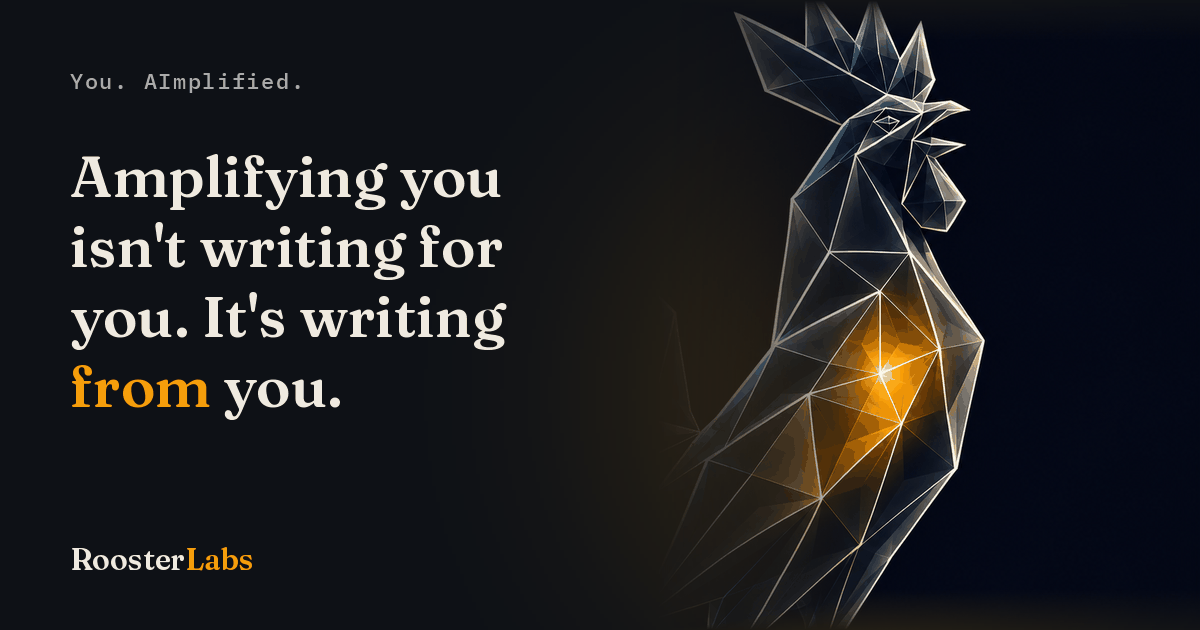
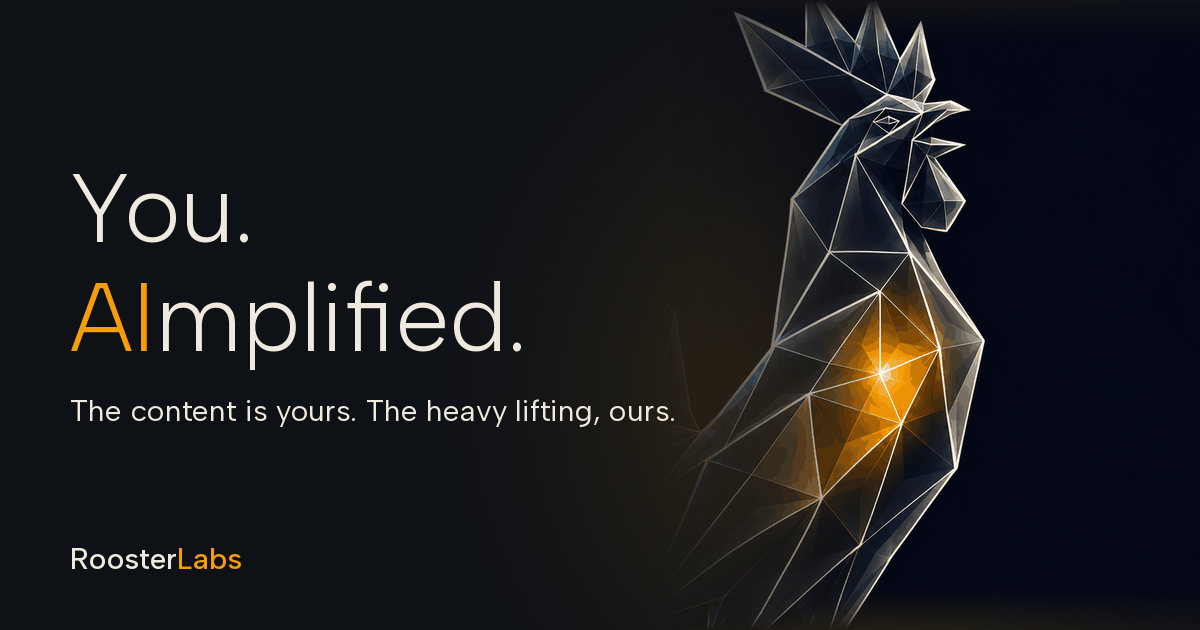
Épico 003 (T6-T7): OGs v0.5, architecture.md, guards do revisor; processo sem PR (decisions/workflow)

diff --git a/internal/server/server_test.go b/internal/server/server_test.go
@@ -617,10 +617,19 @@ func TestFooterBrand(t *testing.T) {
 	rec = httptest.NewRecorder()
 	h.ServeHTTP(rec, httptest.NewRequest(http.MethodGet, "/static/site.css", nil))
 	css := rec.Body.String()
-	for _, want := range []string{".wordmark", ".wordmark-labs", ".footer-brand"} {
+	for _, want := range []string{".footer-brand", ".wordmark"} {
 		if !strings.Contains(css, want) {
 			t.Fatalf("/static/site.css: missing %q (footer brand, v0.5)", want)
 		}
+	}
+	// Achado do revisor da T5: presença de seletor não impede regressão de
+	// valor — 300 no wordmark ("não segura pequeno") ou "Labs" fora do âmbar
+	// passariam verdes. Asserts miram os valores da spec.
+	if !strings.Contains(css, ".wordmark {\n  font-family: \"Albert Sans\", Arial, sans-serif;\n  font-weight: 500;") {
+		t.Fatal("/static/site.css: wordmark must be Albert Sans weight 500 (visual identity v0.5)")
+	}
+	if !strings.Contains(css, ".wordmark-labs {\n  color: var(--amber-500);") {
+		t.Fatal("/static/site.css: wordmark 'Labs' must be amber (visual identity v0.5)")
 	}
 }
 

diff --git a/docs/architecture.md b/docs/architecture.md
@@ -15,17 +15,17 @@ flowchart LR
     end
     LD --> DB[(Neon Postgres)]
     GH[GitHub Actions\nCI verde em main] -.build+deploy+invalidate.-> L
-    FONTS[Google Fonts CDN\nFraunces/Inter/Plex Mono] -.decorativo, fora do\ncaminho crítico.-> V
+    FONTS[Google Fonts CDN\nAlbert Sans/Inter/Plex Mono] -.decorativo, fora do\ncaminho crítico.-> V
 ```
 
-**Estado entregue:** épico 001 (landing bilíngue em produção, captura de leads, funil instrumentado) e épico 002 (copy v0.4, débito técnico de infra/segurança) — ver `epics/done/001-landing-page.md` e `epics/002-landing-v04-sync.md`.
+**Estado entregue:** épico 001 (landing bilíngue em produção, captura de leads, funil instrumentado), épico 002 (copy v0.4, débito técnico de infra/segurança) e épico 003 (copy/identidade v0.5) — ver `epics/done/`.
 
 ## Rotas
 
 | Rota | O que faz |
 |---|---|
-| `GET /` | landing PT-BR (copy v0.4) |
-| `GET /en/` | landing EN (copy v0.4) |
+| `GET /` | landing PT-BR (copy v0.5) |
+| `GET /en/` | landing EN (copy v0.5) |
 | `POST /form/{step}` | processa etapa do carrossel HTMX e retorna próximo fragmento |
 | `POST /event/view` | grava pageview first-party (idioma + path + UTMs lidos de `location.search` no cliente, não do HTML cacheado) |
 | `GET /healthz` | health check |
@@ -40,9 +40,17 @@ Schema inicial no Postgres (Neon):
 
 Migração fonte da verdade: `internal/leads/migrations/001_init.sql`.
 
+## Detalhes entregues no épico 003 (landing v0.5)
+
+- **Fontes:** display migrou de Fraunces (serifa, aposentada pelo guardrail da identidade) para **Albert Sans** (300/400/500); corpo segue Inter, meta segue IBM Plex Mono. Guardrail do peso fino codificado no CSS: 300 só em texto ≥36px (media query em 600px derivada do clamp do h1 — recalibrar se o clamp mudar). Mesma exceção de CDN decorativo de sempre.
+- **Hero v0.5:** tagline como H1 (só o prefixo "AI" em âmbar, via span — a palavra inteira colorida quebra o trocadilho em Albert Sans), sem eyebrow, CTA âncora para `#lead-form`, linha de fechamento própria.
+- **Assets novos em `/static/`:** `rooster-watermark.webp` (26 KB, marca d'água do hero a 16%, some em mobile) e `rooster-icon.png` (112px/12,8 KB, derivado do master de 1024px em `roosterlabs-marketing/brand/`; rodapé com wordmark "Rooster**Labs**" em Albert Sans 500).
+- **Tokens semânticos:** `--ok-500`/`--no-500` para ✓/✗ da tabela de comparação — únicos consumidores são `.mark-ok`/`.mark-no` (regra da identidade travada por teste).
+- **OG v0.5 + cache do LinkedIn:** os arquivos `og.png`/`og-en.png` mantêm os nomes entre versões — o CloudFront invalida no deploy, mas **o LinkedIn cacheia por URL**: após trocar OG, forçar re-scrape no Post Inspector (senão o preview velho persiste).
+
 ## Detalhes entregues no épico 002 (débito técnico + sync v0.4)
 
-- **Fontes:** Fraunces/Inter/IBM Plex Mono via Google Fonts CDN (`<link>` no `<head>`, `preconnect`) — exceção deliberada à regra de "nenhum CDN de terceiro no caminho crítico", já que é decorativo (fallback de CSS se falhar); diferente do htmx, que é vendorado localmente por ser caminho crítico do form.
+- **Fontes:** ver épico 003 acima (Fraunces→Albert Sans); a decisão de CDN decorativo com fallback de CSS vem do 002 — diferente do htmx, vendorado localmente por ser caminho crítico do form.
 - **OG image por idioma:** `ogImageFile(lang)` em `internal/server/server.go` escolhe `og.png` (PT) ou `og-en.png` (EN); metatags incluem `og:image:width=1200`/`height=630`/`type=image/png`. Fecha o G1 do épico 001 (SVG não renderizava preview em LinkedIn/WhatsApp).
 - **UTM à prova de cache:** `web/static/app.js` lê `location.search` no cliente e sobrescreve incondicionalmente os hidden inputs do form (passo 1) e o payload do beacon — nunca confia no HTML servido pelo CloudFront, que cacheia ignorando query string. Fecha o G2 do épico 001.
 - **Deploy CI-gated:** `deploy.yml` dispara via `workflow_run` do workflow `CI` (só com `conclusion == 'success'`), não mais por `push` direto — um lint quebrado não vai mais ao ar.

diff --git a/workflow.md b/workflow.md
@@ -41,10 +41,10 @@ proposto → escopado → aceito → em-execução → concluído
 - Anti-alucinação, cada tarefa declara: **blast radius** (arquivos/funções que espera tocar e que deve ler antes — sair da lista durante a implementação = parar e atualizar a tarefa), plano de teste com edge cases enumerados antes de código, traço ao item do DoD, e orçamento de diff (~150 linhas, excluindo gerado). **Proibido drive-by**: melhoria fora do comportamento vira tarefa própria.
 
 ### 5. Build / Test / Review / Deploy (por tarefa)
-- Branch por tarefa. **Testes primeiro** (do plano de teste), depois implementação. Commits pequenos.
-- Local/devcontainer: `make test` antes de qualquer push. CI roda build + vet + test + lint em todo PR; PR vermelho não é revisado.
-- Review em camadas: (1) agente `revisor` — contexto limpo, ataca o diff contra tarefa, DoD e edge cases; (2) CI verde; (3) Pedro revisa o diff e roda local. `/security-review` obrigatório quando tocar input de usuário, auth ou dados de cliente.
-- Merge em `main` → deploy automático em produção. Rollback = revert + merge.
+- Branch por épico (decisão 2026-07-10; era por tarefa, com PR). **Testes primeiro** (do plano de teste), depois implementação. Um commit por tarefa ou por lote pequeno de tarefas.
+- Local/devcontainer: `make test` + `make lint` antes de qualquer push — é o gate de branch (sem PR, o CI não roda em push de branch).
+- Review em camadas: (1) agente `revisor` — contexto limpo, ataca o diff contra tarefa, DoD e edge cases (obrigatório, por tarefa); (2) CI verde na `main` pós-merge — o deploy só dispara com ele; (3) review de Pedro é **opcional/a posteriori** (`git log -p`), sem PR (decisão 2026-07-10, `decisions.md` — reverte se entrar colaborador). `/security-review` obrigatório quando tocar input de usuário, auth ou dados de cliente.
+- Fim do épico: merge da branch na `main` via terminal → CI → deploy automático (CI vermelho não deploya). Rollback = revert + push.
 - Problema de copy/posicionamento descoberto no meio? Não corrige local — nota no épico, sobe upstream.
 
 ### 6. Fechar (engineering) — e repetir

diff --git a/decisions.md b/decisions.md
@@ -3,6 +3,12 @@
 Newest first. Every entry: decision, rationale, what would reverse it.
 Upstream: `_strategy/decisions.md` (solo, delivery 100% automatizada, MVP + 2–3 clientes em ~90 dias).
 
+## 2026-07-10 — Review por PR removido do loop por tarefa; gate humano de merge vira opcional
+
+- **Decisão:** o fluxo por tarefa deixa de exigir PR + review manual de Pedro. Novo fluxo: branch por épico, commit por lote de tarefas (com `make test`+`lint` locais obrigatórios), revisor de contexto limpo por tarefa (automático, obrigatório), merge na `main` via terminal ao fim do épico. Review de código de Pedro passa a ser opcional/a posteriori.
+- **Rationale:** decisão de Pedro (2026-07-10) — o PR estava criando dependência recorrente da atenção dele, contra o guardrail da empresa solo ("ops que exigem atenção humana recorrente são um bug"). A proteção de produção não vem do PR: `deploy.yml` só dispara via `workflow_run` com CI verde na `main` (épico 002, T4) — push quebrado na main não deploya. O que se perde: CI em push de branch (sem PR não roda; mitigado pelo `make test`/`lint` local antes de todo push) e o gate humano pré-merge (mitigado pelo revisor + testes + CI).
+- **Reversed if:** entrar um segundo colaborador (PR volta a ser o ponto de sincronização), ou um incidente de produção que o review humano pré-merge teria pego.
+
 ## 2026-07-10 — golangci-lint migrado para v2 (v2.12.2 + action v9); ignore do Dependabot removido (épico 002, T21)
 
 - **Decisão:** CI usa `golangci-lint-action@v9` com `golangci-lint v2.12.2`. Sem `.golangci.yml` — o conjunto default "standard" do v2 equivale ao default do v1 (gosimple absorvido pelo staticcheck); config só entra quando houver necessidade real. Removido o `ignore` de `golangci-lint-action >= 7` do `.github/dependabot.yml` (condição de reversão da entrada de 2026-07-08 cumprida).

diff --git a/epics/003-landing-v05-refactor.md b/epics/003-landing-v05-refactor.md
@@ -180,6 +180,10 @@ _Itens transversais do DoD (8, 9, 11) são verificados por tarefa (CI/deploy) e 
 - **Correção de processo (2026-07-10):** o CI só roda em `pull_request` e push na `main` — push em branch sem PR não valida nada. Ajuste no desvio registrado acima: **abrir a PR como draft já no primeiro push** (CI roda em cada push da branch; draft não convida merge); no final, tirar do draft e revisar commit a commit.
 - **T4 — feita (2026-07-10).** Tokens `--ok-500`/`--no-500` (hex exatos da paleta v0.2) + classes `.mark-ok`/`.mark-no`; 12✓/6✗ embrulhados em span por página (matriz conferida célula a célula pelo revisor contra `landing-page.md` v0.5, PT e EN). Teste conta por classe E por total (marca fora de span falha), e — achado do revisor incorporado — trava o número de consumidores de cada token em exatamente 1 (regra 6 da identidade: ok/no nunca em CTA/link/destaque). ~55 linhas.
 - **Nota de histórico (2ª):** T1–T4 entraram num **único commit combinado** — o `git add`/`commit` de Pedro falhou duas vezes por locks órfãos (`HEAD.lock`, `index.lock`) deixados por operações de git no sandbox do Cowork; sandbox parou de rodar git no repo (lição operacional). O registro por tarefa é este log; o `make test`+`lint` local passou com T1–T4 juntas antes do commit.
+- **T5 — feita (2026-07-10).** `rooster-icon.png` (112px, 12,8 KB — RMSE 3e-13 contra resize limpo do master, alpha preservado, conferido pelo revisor) + `.footer-brand` com wordmark dois tons (Albert Sans 500; peso 500 já carregado desde a T1). `alt=""` deliberado: o wordmark textual ao lado já nomeia a marca (prática WAI; comentário nos templates). Teste cobre asset ≤30 KB (o master de 1,6 MB por engano falha), Content-Type, markup dois tons e — achados do revisor incorporados — os **valores** do CSS (peso 500, Labs âmbar), não só seletores.
+- **Furo de processo registrado:** o commit rotulado "T1-T4" levou a T5 junta (o `git add -A` sugerido varreu trabalho já implementado e ainda não revisado — erro de sequenciamento da sessão, pego pelo revisor da T5). Conteúdo aprovado a posteriori; correção: amend da mensagem para "T1-T5" antes do merge. Lição: bloco de commit só depois do revisor da tarefa correspondente.
+- **T6 — feita (2026-07-10).** `og.png`/`og-en.png` v0.5 copiados por cima dos v0.4 (hashes trocados: `61c4c7…`→`8254d1…` PT, `034cc8…`→`8acaba…` EN; 1200×630 PNG confirmado). Metatags inalteradas (já corretas desde o 002). **Pendente para o fechamento: re-scrape no LinkedIn Post Inspector + preview WhatsApp pós-deploy** (cache de OG do LinkedIn é por URL).
+- **T7 — feita (2026-07-10).** `docs/architecture.md`: diagrama (fontes), rotas (v0.5), nova seção "Detalhes entregues no épico 003" (Albert Sans + guardrail, hero v0.5, assets novos, tokens semânticos, nota do re-scrape de OG); seção do 002 enxugada com remissão. Menções a Fraunces no doc são históricas (migração), consistente com a leitura do DoD 2 registrada na T1.
 - **T3 — feita (2026-07-10).** `rooster-full.webp` (26 KB, 600×600, cópia byte a byte) servido como `/static/rooster-watermark.webp`; `<img>` decorativa (`alt=""` + `aria-hidden` + `loading="lazy"` — deliberado: em mobile o `display:none` evita até o download) no header das duas rotas; CSS: 16%, direita, `z-index` negativo (atrás do texto, na frente do fundo — stacking verificado pelo revisor), glow âmbar próprio via `::before`, sem offsets negativos (sem overflow horizontal, verificado 601–1000px), some ≤600px. Revisor aprovou; achado incorporado: guarda do CSS no teste (mesmo padrão da T1). Nota do revisor para o fechamento: a verificação visual do "nunca compete com o H1" deve incluir a faixa **601–960px** (H1 e galo se tocam no limite, galo atrás a 16%), não só 390px e desktop cheio. Diff ~75 linhas (orçamento "~60" — dentro do "~", registrado).
 
 ## Fechamento (skill `fechar-epico`)